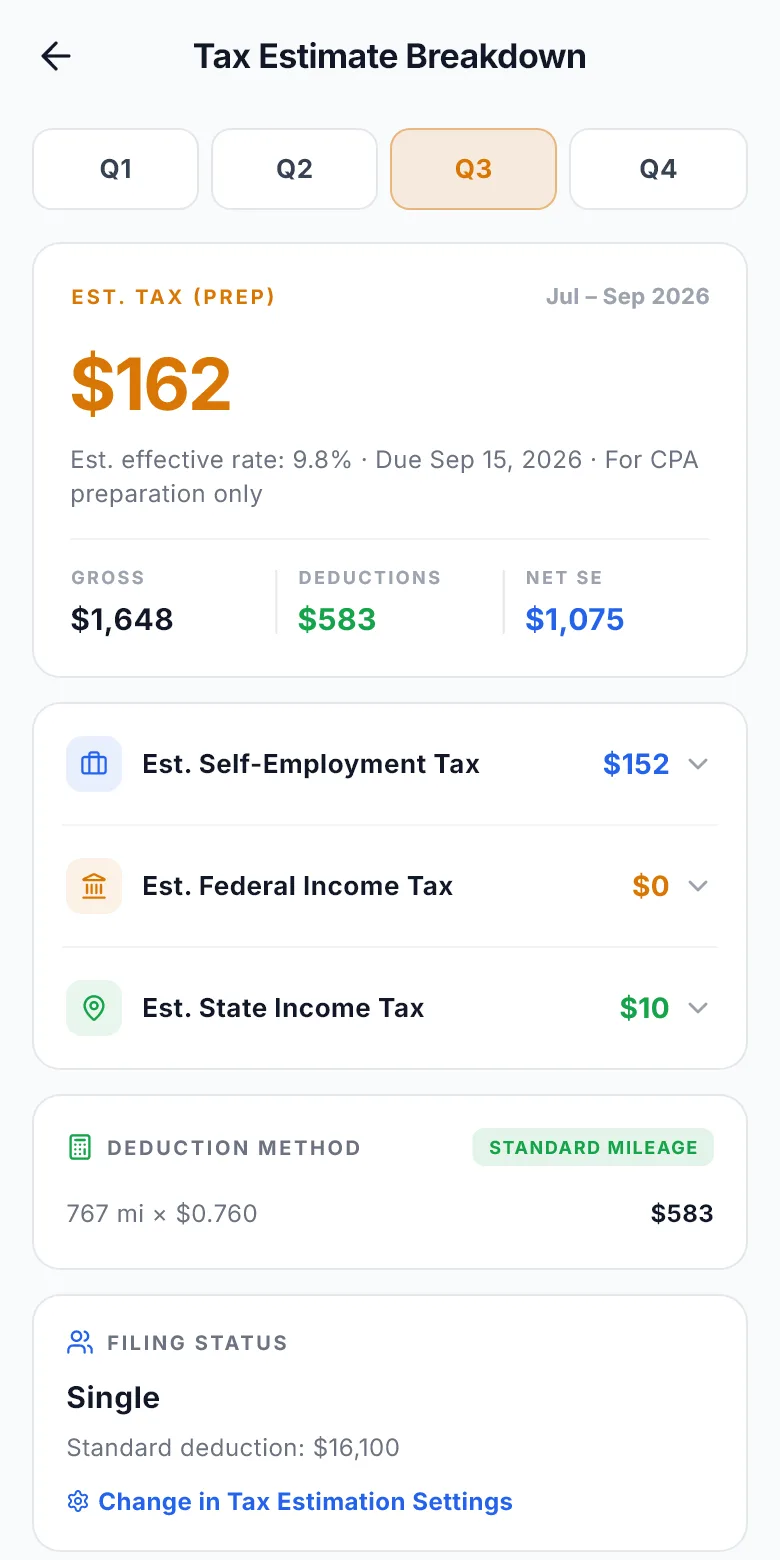
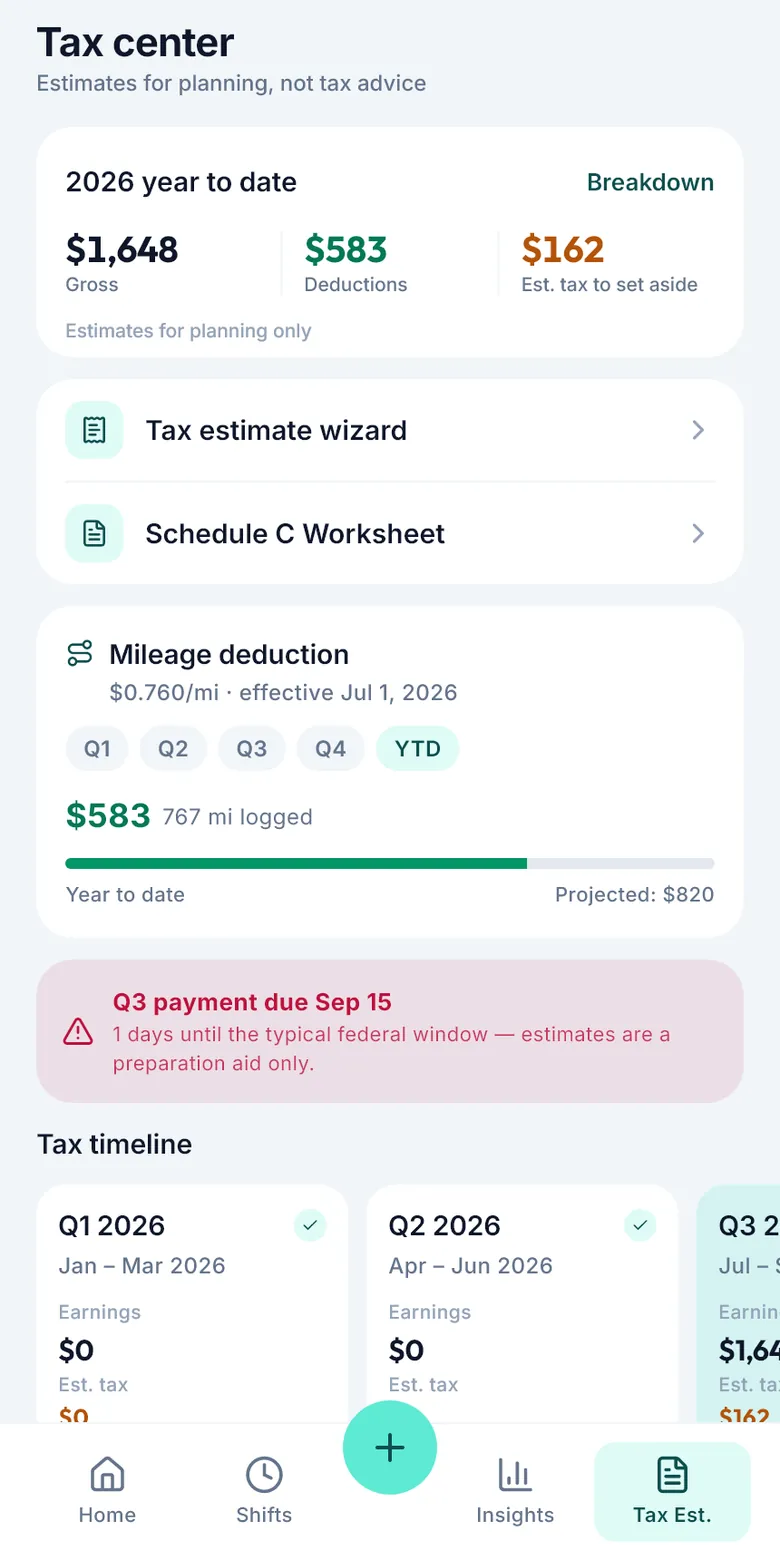
feat(web): the tour shows what shipped — split shift, your plan, tax center
The deck's four captures were the app's old UI. All four are now real
screens rendered from the app source (1.1.0+29) with sample data, via
the same golden-test route as the Home capture:

- 01 Home: unchanged from the previous commit ($235 -> $192, Alex).
- 02 Split by platform: one 8 h / 105.0 mi shift cut into DoorDash,
  Uber Eats and Instacart blocks, each with measured time and miles and
  the two 10-minute stops marked as magnets. New card copy + alt.
- 03 Your plan (Pro): net today $192 of a $115 target, and the required
  income ladder — $2,400 living costs, 10% buffer, $300 savings ->
  $2,940 net -> $4,523 gross to aim for, by week / day / hour.
- 04 Tax center: 2026 YTD $1,648 gross, $583 deduction over 767 mi,
  $162 to set aside, Q3 due Sep 15. Same copy and alt as before, now on
  the screen that matches them.

Shifts and Insights leave the deck; their old-UI files are removed.
home-v2 test updated to the new set (still: WebP, < 60 KB each, eight
distinct files, home alt names the $192 net).

diff --git a/src/components/editorial/ApprovedHome.tsx b/src/components/editorial/ApprovedHome.tsx
@@ -23,9 +23,9 @@ import './home-v2.css'
 // customer's earnings.
 export const TOUR_SCREENS: TourScreen[] = [
   {id:'home',tag:'FREE',figure:{value:192,prefix:'$',caption:'Net today, from $235 gross'},title:'Today’s number, after costs',body:'Net after vehicle costs and an estimated tax set-aside, for today and this week.',image:'tour-home.webp',alt:'Example GigMiles home screen with Today selected: Net Income $192 from $235 gross and $43 estimated costs; 105.0 miles, 8 hours, 1 trip, $24 per hour. Example inputs on a 2023 Toyota Prius in California, not a customer’s earnings.'},
-  {id:'shifts',tag:'FREE',figure:{value:1939,decimals:1,suffix:' mi',caption:'Logged this year, across 156 hours'},title:'Each shift, on record',body:'Hours and miles by day, with what you earned. Edit a shift, add one you forgot, undo a delete.',image:'tour-shifts.webp',alt:'Example shift history on the year view: $4,169.15 gross, $3,395.16 net, 1,939.0 miles and 156 hours this year, then day cards for September and August with platform labels. Example inputs, not a customer’s earnings.'},
+  {id:'split',tag:'FREE',figure:{value:105,decimals:1,suffix:' mi',caption:'One shift, split across three apps'},title:'Each app gets its own miles',body:'Switch apps mid-shift, or split the shift afterwards. Every block keeps its own time, miles and earnings — so the deduction lands on the app you were driving for, not the first one you opened.',image:'tour-split.webp',alt:'Example GigMiles split-by-platform screen: one shift from 9:00 AM to 5:00 PM divided into DoorDash (9:00 to 12:30, 3h 30m, 46.6 miles), Uber Eats (12:30 to 3:00, 2h 30m, 32.0 miles) and Instacart (3:00 to 5:00, 2h 00m, 26.5 miles), 105.0 miles in total, with the two 10-minute stops marked where the switches happened. Example inputs, not a customer’s shift.'},
+  {id:'plan',tag:'PRO',figure:{value:4523,prefix:'$',caption:'Gross to aim for, from $2,400 of living costs'},title:'A target that starts from your rent',body:'Living costs, a buffer and a savings goal become the net you need, then the gross to aim for by week, by day, by hour. Today’s number says whether you are on pace.',image:'tour-plan.webp',alt:'Example GigMiles Your plan screen: net today $192 of a $115 target, target reached; required income per month from $2,400 living costs, a 10% buffer of $240 and a $300 savings target is $2,940 net, plus 35% for costs and tax set-aside ($1,583), so the gross to aim for is $4,523: $686 per week, $114 per work day, $14 per hour. Example inputs, not a customer’s plan.'},
   {id:'tax',tag:'FREE · EXPORT IS PRO',figure:{value:162,prefix:'$',caption:'Estimated tax to set aside, Q3 2026'},title:'Tax center, on screen',body:'Self-employment, federal and state estimates with a Schedule C worksheet. PDF and CSV export for your tax professional is Pro.',image:'tour-tax.webp',alt:'Example tax estimate breakdown for Q3 2026: estimated tax for preparation $162 (self-employment $152, federal $0, state $10) on $1,648 gross with a $583 mileage deduction over 767 miles, single filer. Estimates only, not tax advice.'},
-  {id:'insights',tag:'PRO',title:'Insights by platform',body:'Dollars per hour and per mile by platform, trend charts and a what-if mileage simulator.',image:'tour-insights.webp',alt:'Example Insights screen (Pro): a monthly gross and net profit trend across six months, a profit-per-hour and profit-per-mile trend, and an earnings-versus-expenses breakdown. Example inputs, not a customer’s earnings.'},
 ]
 // Approved 2026-08-30 preview, transcribed into native React markup.
 export function ApprovedHome({heroMode='timed',variant='live'}:{heroMode?:'timed'|'scroll';variant?:'live'|'v2'}){const v2=variant==='v2';return <>

diff --git a/src/components/editorial/home-v2.test.tsx b/src/components/editorial/home-v2.test.tsx
@@ -58,9 +58,11 @@ describe('home v2 (local preview only)',()=>{
     expect(html).not.toMatch(BANNED_PAGE)
     expect(renderToStaticMarkup(<ApprovedHome heroMode="scroll"/>)).not.toMatch(SECTIONS)
     const tour=[...html.matchAll(/src="\/editorial\/(tour-[a-z]+)\.webp"/g)].map(m=>m[1])
-    expect(new Set(tour)).toEqual(new Set(['tour-home','tour-shifts','tour-tax','tour-insights']))
+    // Four real captures from the app source (1.1.0+29): Home, the split-by-
+    // platform sheet, Your plan and the Tax center.
+    expect(new Set(tour)).toEqual(new Set(['tour-home','tour-split','tour-plan','tour-tax']))
     const hashes=new Set<string>()
-    for(const name of ['tour-home','tour-shifts','tour-tax','tour-insights']){
+    for(const name of ['tour-home','tour-split','tour-plan','tour-tax']){
       for(const variant of [name,name+'-390']){
         const buffer=readFileSync(`public/editorial/${variant}.webp`)
         expect(buffer.length).toBeLessThan(60000)
